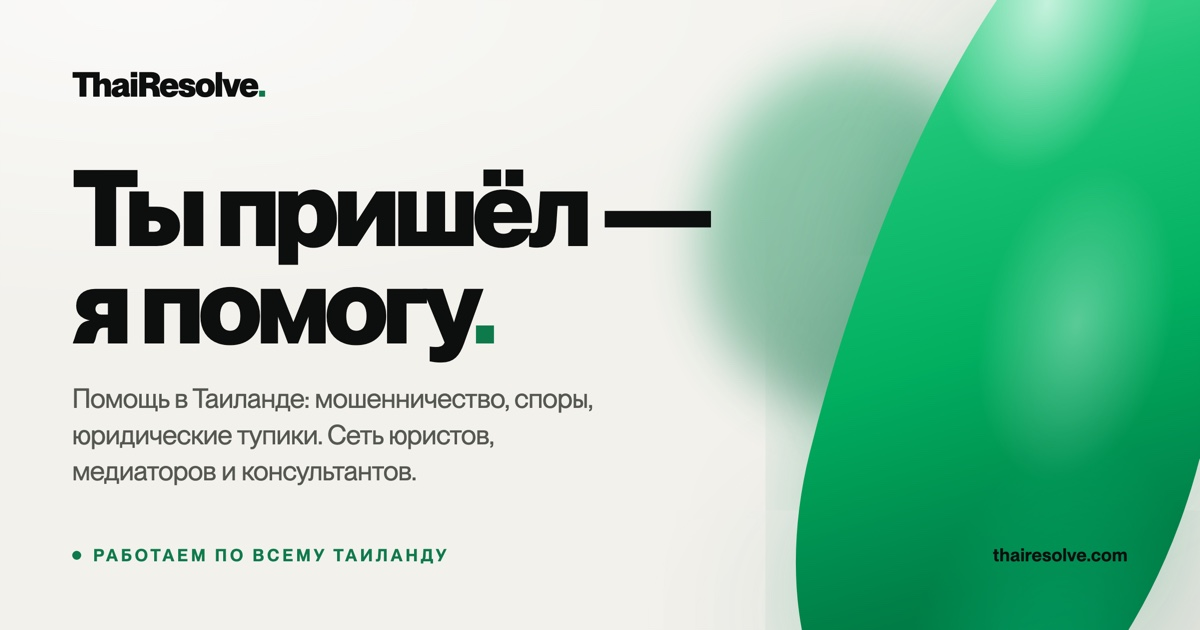
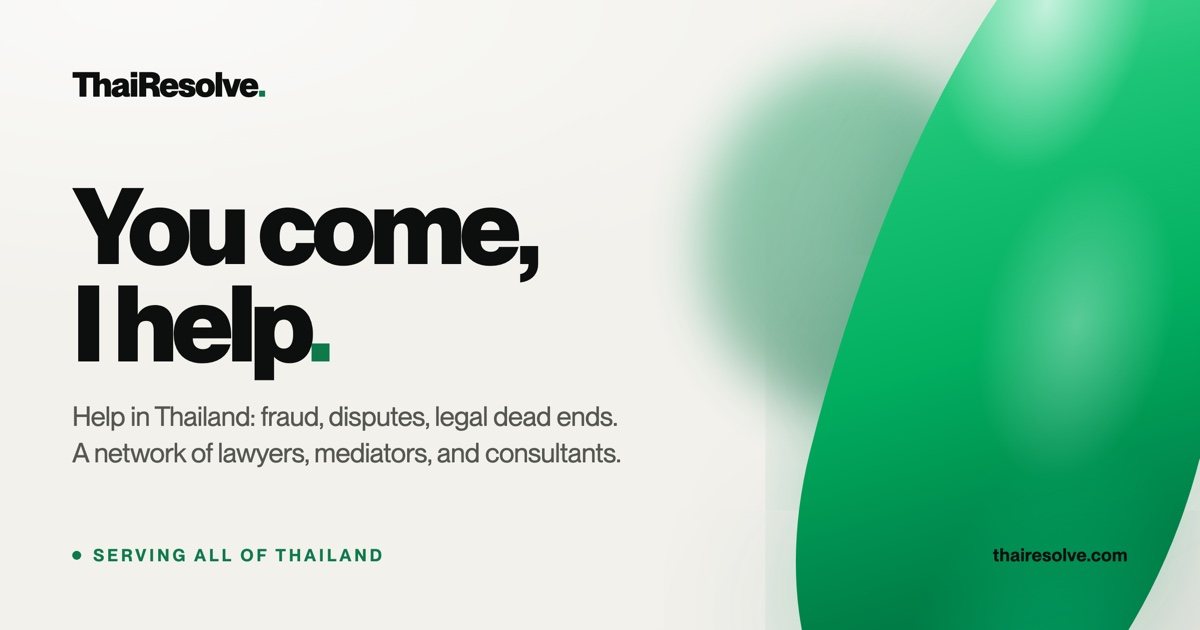
Default the site to English
- i18n: default + fallback language en (was ru); persisted choice still wins
- Nav: list EN first in the language switcher
- index.html: html lang="en", English title/description/keywords, OG &
  Twitter copy, og:locale en_US (ru/th as alternates), hreflang x-default,
  English JSON-LD description
- Regenerate og-image.jpg with the English "You come, I help." headline

Changed region(s): [[0.0617, 0.4524, 0.5242, 0.7841], [0.0617, 0.2714, 0.6167, 0.4524], [0.0617, 0.8444, 0.37, 0.9048]]

diff --git a/index.html b/index.html
@@ -1,5 +1,5 @@
 <!doctype html>
-<html lang="ru">
+<html lang="en">
   <head>
     <meta charset="UTF-8" />
     <link rel="icon" type="image/png" sizes="64x64" href="/favicon-64.png?v=2" />
@@ -11,9 +11,9 @@
     <link rel="preload" as="font" href="/fonts/PPNeueMontreal-Extrabold.woff2" type="font/woff2" crossorigin />
 
     <!-- SEO Meta Tags -->
-    <title>ThaiResolve — Помощь в Таиланде | Мошенничество, юридические споры, ДТП</title>
-    <meta name="description" content="Профессиональная помощь русскоязычным в Таиланде: мошенничество, аренда, ДТП, бизнес и юридические споры. Сеть лицензированных юристов, медиаторов и консультантов." />
-    <meta name="keywords" content="помощь в Таиланде, мошенничество Таиланд, юрист Таиланд, адвокат Пхукет, ДТП Таиланд, аренда Таиланд, юридическая помощь Таиланд, развод на деньги Таиланд" />
+    <title>ThaiResolve — Help in Thailand | Fraud, Legal Disputes, Accidents</title>
+    <meta name="description" content="Professional support for foreigners in Thailand: fraud, rental and business disputes, road accidents, and legal issues. A network of licensed lawyers, mediators, and consultants." />
+    <meta name="keywords" content="help in Thailand, scam Thailand, lawyer Thailand, attorney Phuket, road accident Thailand, rental dispute Thailand, legal help Thailand, expat support Thailand" />
     <meta name="author" content="ThaiResolve" />
     <meta name="robots" content="index, follow, max-image-preview:large" />
 
@@ -21,28 +21,31 @@
     <meta property="og:type" content="website" />
     <meta property="og:site_name" content="ThaiResolve" />
     <meta property="og:url" content="https://thairesolve.com/" />
-    <meta property="og:title" content="Ты пришёл — я помогу. Поддержка в Таиланде" />
-    <meta property="og:description" content="Мошенничество, споры, юридические тупики в Таиланде — берём на себя. Сеть лицензированных юристов, медиаторов и консультантов." />
+    <meta property="og:title" content="You come, I help. Support in Thailand" />
+    <meta property="og:description" content="Fraud, disputes, legal dead ends in Thailand — handled. A network of licensed lawyers, mediators, and consultants." />
     <meta property="og:image" content="https://thairesolve.com/og-image.jpg" />
     <meta property="og:image:secure_url" content="https://thairesolve.com/og-image.jpg" />
     <meta property="og:image:type" content="image/jpeg" />
     <meta property="og:image:width" content="1200" />
     <meta property="og:image:height" content="630" />
-    <meta property="og:image:alt" content="ThaiResolve — помощь в Таиланде при мошенничестве и юридических спорах" />
-    <meta property="og:locale" content="ru_RU" />
-    <meta property="og:locale:alternate" content="en_US" />
+    <meta property="og:image:alt" content="ThaiResolve — help in Thailand with fraud and legal disputes" />
+    <meta property="og:locale" content="en_US" />
+    <meta property="og:locale:alternate" content="ru_RU" />
+    <meta property="og:locale:alternate" content="th_TH" />
 
     <!-- Twitter -->
     <meta name="twitter:card" content="summary_large_image" />
-    <meta name="twitter:title" content="Ты пришёл — я помогу. Поддержка в Таиланде" />
-    <meta name="twitter:description" content="Мошенничество, споры, юридические тупики в Таиланде — берём на себя. Сеть лицензированных юристов, медиаторов и консультантов." />
+    <meta name="twitter:title" content="You come, I help. Support in Thailand" />
+    <meta name="twitter:description" content="Fraud, disputes, legal dead ends in Thailand — handled. A network of licensed lawyers, mediators, and consultants." />
     <meta name="twitter:image" content="https://thairesolve.com/og-image.jpg" />
-    <meta name="twitter:image:alt" content="ThaiResolve — помощь в Таиланде" />
+    <meta name="twitter:image:alt" content="ThaiResolve — help in Thailand" />
 
     <!-- Canonical & Alternate -->
     <link rel="canonical" href="https://thairesolve.com/" />
-    <link rel="alternate" hreflang="ru" href="https://thairesolve.com/" />
-    <link rel="alternate" hreflang="en" href="https://thairesolve.com/?lang=en" />
+    <link rel="alternate" hreflang="x-default" href="https://thairesolve.com/" />
+    <link rel="alternate" hreflang="en" href="https://thairesolve.com/" />
+    <link rel="alternate" hreflang="ru" href="https://thairesolve.com/?lang=ru" />
+    <link rel="alternate" hreflang="th" href="https://thairesolve.com/?lang=th" />
 
     <!-- DNS Prefetch & Preconnect for critical resources -->
     <link rel="dns-prefetch" href="https://fonts.googleapis.com" />
@@ -70,11 +73,11 @@
       "@context": "https://schema.org",
       "@type": "ProfessionalService",
       "name": "ThaiResolve",
-      "description": "Профессиональная помощь русскоязычным в Таиланде при мошенничестве, арендных и бизнес-спорах, ДТП и юридических вопросах. Сеть лицензированных юристов, медиаторов и консультантов.",
+      "description": "Professional support for foreigners in Thailand with fraud, rental and business disputes, road accidents, and legal issues. A network of licensed lawyers, mediators, and consultants.",
       "url": "https://thairesolve.com",
       "logo": "https://thairesolve.com/favicon-192.png",
       "image": "https://thairesolve.com/og-image.jpg",
-      "knowsLanguage": ["ru", "en", "th"],
+      "knowsLanguage": ["en", "ru", "th"],
       "contactPoint": {
         "@type": "ContactPoint",
         "contactType": "customer service",

diff --git a/src/i18n/index.ts b/src/i18n/index.ts
@@ -6,8 +6,8 @@ import en from './en.json';
 import th from './th.json';
 
 const savedLang = typeof window !== 'undefined'
-  ? localStorage.getItem('lang') || 'ru'
-  : 'ru';
+  ? localStorage.getItem('lang') || 'en'
+  : 'en';
 
 i18n
   .use(initReactI18next)
@@ -18,7 +18,7 @@ i18n
       th: { translation: th },
     },
     lng: savedLang,
-    fallbackLng: 'ru',
+    fallbackLng: 'en',
     interpolation: {
       escapeValue: false,
     },

diff --git a/src/components/layout/Nav.tsx b/src/components/layout/Nav.tsx
@@ -3,8 +3,8 @@ import { useTranslation } from 'react-i18next';
 import { Menu, X, ArrowRight, ArrowUpRight, ChevronDown } from 'lucide-react';
 
 const languages = [
-  { code: 'ru', label: 'RU', name: 'Русский' },
   { code: 'en', label: 'EN', name: 'English' },
+  { code: 'ru', label: 'RU', name: 'Русский' },
   { code: 'th', label: 'TH', name: 'ไทย' },
 ];
 
